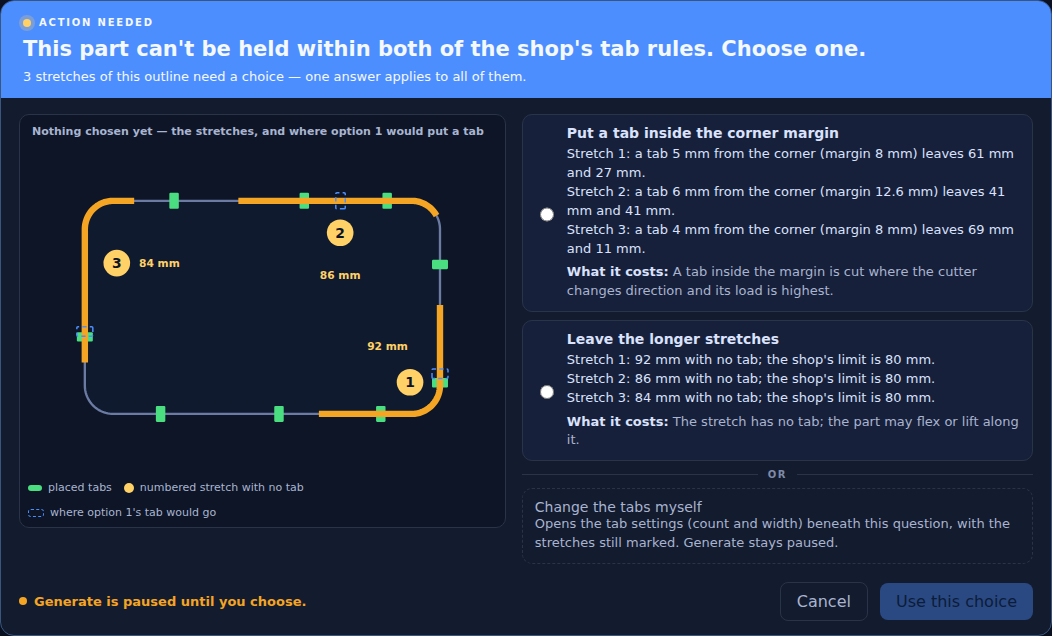
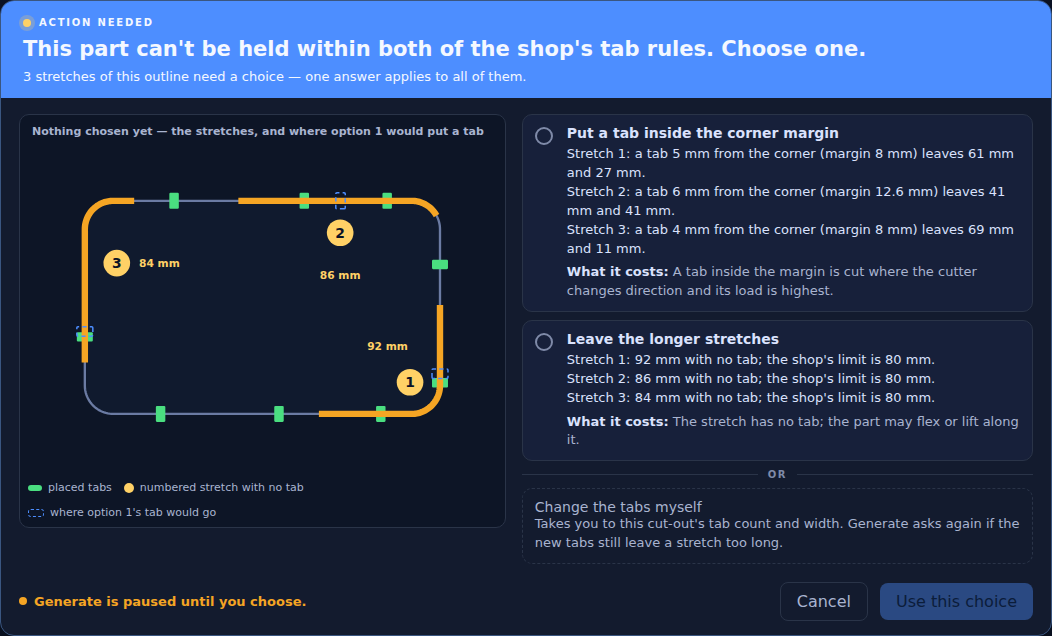
feat(#1258): B2 — the picked radio looks picked, option 3 tells the truth, the Holding suffix, named cut-outs
The radio is a drawn ring with a filled accent centre when picked (the native input still carries the
keyboard); "Change the tabs myself" collapses the card to the bar and takes the operator to the
cut-out's tab count, with the ruled sentence; the cut-out row's summary carries "· 1 by your choice";
each row names its cut-out when the engine says which (several cut-outs). The run sheet's sentences
wait for the engine's statement.

Claude-Session: https://claude.ai/code/session_011NvDTuaiKYH38e7cdeGhfx

Changed region(s): [[0.4867, 0.8066, 0.9734, 0.8664], [0.5171, 0.5975, 0.5475, 0.6274], [0.5171, 0.3286, 0.5475, 0.3585]]

diff --git a/casemaker-app/src/components/panels/TabChoiceCard.tsx b/casemaker-app/src/components/panels/TabChoiceCard.tsx
@@ -35,9 +35,11 @@ import {
   TAB_QUESTION,
   answeredSummary,
   insideMarginOffered,
+  CHANGE_TABS_LINE,
   insideMarginRow,
   longerStretchRow,
   mm,
+  severalCuts,
   stretchCountLine,
   stretchNumber,
   type TabChoiceAnswer,
@@ -314,16 +316,35 @@ export function TabChoiceCard(props: TabChoiceCardProps): JSX.Element {
       onMouseLeave={() => setHover(null)}
       data-testid={`tab-choice-option-${value}`}
     >
-      <input
-        type="radio"
-        name="tab-choice"
-        value={value}
-        checked={picked === value}
-        onChange={() => setPicked(value)}
-        onFocus={() => setHover(value)}
-        onBlur={() => setHover(null)}
-        style={{ marginTop: 3 }}
-      />
+      {/* The native radio carries the keyboard and the screen reader; the drawn ring and centre carry
+          the look, so a picked option rests on more than its border: a filled accent centre against
+          an empty ring. */}
+      <span style={{ position: 'relative', width: 18, height: 18, marginTop: 2 }}>
+        <input
+          type="radio"
+          name="tab-choice"
+          value={value}
+          checked={picked === value}
+          onChange={() => setPicked(value)}
+          onFocus={() => setHover(value)}
+          onBlur={() => setHover(null)}
+          style={{ position: 'absolute', inset: 0, margin: 0, opacity: 0, cursor: 'pointer' }}
+        />
+        <span
+          aria-hidden
+          data-testid={`tab-choice-radio-${value}`}
+          data-picked={picked === value}
+          style={{
+            display: 'block',
+            width: 18,
+            height: 18,
+            boxSizing: 'border-box',
+            borderRadius: '50%',
+            border: `2px solid ${picked === value ? BLUE : '#7f8aa8'}`,
+            background: picked === value ? `radial-gradient(circle at center, ${BLUE} 0 5px, transparent 5px)` : 'transparent',
+          }}
+        />
+      </span>
       <span>
         <span style={{ display: 'block', fontSize: 14, fontWeight: 600, color: INK, marginBottom: 4 }}>{title}</span>
         {rows.map((r) => (
@@ -375,12 +396,12 @@ export function TabChoiceCard(props: TabChoiceCardProps): JSX.Element {
               <b style={{ color: AMBER }}>Option 1 is not offered.</b> {NO_PLACE_LINE}
             </p>
           ) : (
-            radio('insideMargin', 'Put a tab inside the corner margin', needed.stretches.map(insideMarginRow), COST_INSIDE_MARGIN)
+            radio('insideMargin', 'Put a tab inside the corner margin', needed.stretches.map((s) => insideMarginRow(s, severalCuts(needed.stretches))), COST_INSIDE_MARGIN)
           )}
           {radio(
             'longerStretch',
             needed.stretches.length === 1 ? 'Leave the longer stretch' : 'Leave the longer stretches',
-            needed.stretches.map((s) => longerStretchRow(s, needed.limitMm)),
+            needed.stretches.map((s) => longerStretchRow(s, needed.limitMm, severalCuts(needed.stretches))),
             COST_LONGER_STRETCH,
           )}
           <div aria-hidden style={{ display: 'flex', alignItems: 'center', gap: 10, color: '#7f8aa8', fontSize: 10, fontWeight: 600, letterSpacing: '.16em', textTransform: 'uppercase' }}>
@@ -396,7 +417,7 @@ export function TabChoiceCard(props: TabChoiceCardProps): JSX.Element {
           >
             <span style={{ display: 'block', fontSize: 14, fontWeight: 500 }}>Change the tabs myself</span>
             <span style={{ display: 'block', fontSize: 13, lineHeight: 1.45 }}>
-              Opens the tab settings (count and width) beneath this question, with the stretch{needed.stretches.length === 1 ? '' : 'es'} still marked. Generate stays paused.
+              {CHANGE_TABS_LINE}
             </span>
           </button>
         </div>

diff --git a/casemaker-app/src/components/panels/tabChoiceWords.ts b/casemaker-app/src/components/panels/tabChoiceWords.ts
@@ -10,7 +10,21 @@
 
 import type { TabChoiceNeeded } from '@/engine/cnc/cam/model/plan';
 
-export type TabStretchOf = TabChoiceNeeded['stretches'][number];
+/**
+ * A stretch as the planner reports it. `cut` names the cut-out it belongs to, as the operation list
+ * names it, when the engine says (several cut-outs can each have a stretch).
+ */
+export type TabStretchOf = TabChoiceNeeded['stretches'][number] & { cut?: { id: string; name: string } };
+
+/** "Lid outline — " before a row when the stretch's cut-out is known and there is more than one. */
+function cutPrefix(s: TabStretchOf, several: boolean): string {
+  return several && s.cut !== undefined ? `${s.cut.name} — ` : '';
+}
+
+/** Whether the stretches span more than one cut-out (each row then names its own). */
+export function severalCuts(stretches: readonly TabStretchOf[]): boolean {
+  return new Set(stretches.map((s) => s.cut?.id ?? '')).size > 1;
+}
 
 /** The two answers; the third option changes the rules' inputs and is not an answer. */
 export type TabChoiceAnswer = 'insideMargin' | 'longerStretch';
@@ -39,15 +53,16 @@ export const COST_INSIDE_MARGIN =
 export const COST_LONGER_STRETCH = 'The stretch has no tab; the part may flex or lift along it.';
 
 /** Option 1's sentence for one stretch — a row of the choice, at body size. */
-export function insideMarginRow(s: TabStretchOf): string {
+export function insideMarginRow(s: TabStretchOf, several = false): string {
   const c = s.candidate;
-  if (c === null) return `Stretch ${stretchNumber(s)}: no place for a tab — stays ${mm(s.spanMm)}.`;
-  return `Stretch ${stretchNumber(s)}: a tab ${mm(c.fromCornerMm)} from the corner (margin ${mmOne(c.marginMm)} mm) leaves ${mm(c.leavesSpansMm[0])} and ${mm(c.leavesSpansMm[1])}.`;
+  const head = `${cutPrefix(s, several)}Stretch ${stretchNumber(s)}`;
+  if (c === null) return `${head}: no place for a tab — stays ${mm(s.spanMm)}.`;
+  return `${head}: a tab ${mm(c.fromCornerMm)} from the corner (margin ${mmOne(c.marginMm)} mm) leaves ${mm(c.leavesSpansMm[0])} and ${mm(c.leavesSpansMm[1])}.`;
 }
 
 /** Option 2's sentence for one stretch. */
-export function longerStretchRow(s: TabStretchOf, limitMm: number): string {
-  return `Stretch ${stretchNumber(s)}: ${mm(s.spanMm)} with no tab; the shop's limit is ${mm(limitMm)}.`;
+export function longerStretchRow(s: TabStretchOf, limitMm: number, several = false): string {
+  return `${cutPrefix(s, several)}Stretch ${stretchNumber(s)}: ${mm(s.spanMm)} with no tab; the shop's limit is ${mm(limitMm)}.`;
 }
 
 /** Whether the first option can be offered: at least one stretch has a place for a tab. */
@@ -104,4 +119,7 @@ export function answeredSummary(choice: TabChoiceAnswer, n: TabChoiceNeeded): { 
 export const TAB_AGAIN_LINE = 'The outline changed since you chose; choose again.';
 export const TAB_BAR_HEADLINE = 'Action needed: choose how this part is held';
 export const TAB_BAR_SUB = 'Generate has no programs until you choose.';
+/** Option 3: it is not an answer, and it goes to the cut-out's own tab settings. */
+export const CHANGE_TABS_LINE =
+  "Takes you to this cut-out's tab count and width. Generate asks again if the new tabs still leave a stretch too long.";
 export const TAB_PAUSED_LINE = 'Generate is paused until you choose.';

diff --git a/casemaker-app/tests/unit/engraveTabChoice1258.spec.tsx b/casemaker-app/tests/unit/engraveTabChoice1258.spec.tsx
@@ -5,6 +5,8 @@ import { afterEach, beforeEach, describe, expect, it, vi } from 'vitest';
 import { act, cleanup, fireEvent, render, screen } from '@testing-library/react';
 
 import { EngraveTabChoice } from '@/components/panels/EngraveTabChoice';
+import { useTabChoiceSuffix } from '@/components/panels/useTabChoiceSuffix';
+import type { JSX } from 'react';
 import { defaultEngraveJob } from '@/engine/cnc/engrave/defaults';
 import { useEngraveJobStore } from '@/store/engraveJobStore';
 import { useEngraveRunStore } from '@/store/engraveRunStore';
@@ -63,6 +65,32 @@ describe('#1258 — the question where Generate stopped', () => {
     fireEvent.click(screen.getByLabelText(/Leave the longer stretches/));
     fireEvent.click(screen.getByTestId('tab-choice-use'));
     expect(useEngraveJobStore.getState().job.tabChoice?.choice).toBe('longerStretch');
+  });
+
+  it('"Change the tabs myself" collapses the card to the bar and goes to the cut-out’s tab count; it answers nothing', () => {
+    const count = document.createElement('input');
+    count.setAttribute('data-testid', 'engrave-cutout-tabs-count-0');
+    count.scrollIntoView = vi.fn();
+    document.body.appendChild(count);
+    useEngraveRunStore.setState({ generated: asking() });
+    render(<EngraveTabChoice onGenerate={vi.fn()} />);
+    fireEvent.click(screen.getByTestId('tab-choice-change-tabs'));
+    expect(screen.getByTestId('tab-choice-bar')).toBeTruthy();
+    expect(document.activeElement).toBe(count);
+    expect(useEngraveJobStore.getState().job.tabChoice).toBeUndefined();
+    count.remove();
+  });
+
+  it('the Holding row carries the choice once answered', () => {
+    useEngraveRunStore.setState({ generated: asking() });
+    render(<EngraveTabChoice onGenerate={vi.fn()} />);
+    fireEvent.click(screen.getByLabelText(/Leave the longer stretches/));
+    fireEvent.click(screen.getByTestId('tab-choice-use'));
+    function Row(): JSX.Element {
+      return <span data-testid="row">{useTabChoiceSuffix('cut-1', 0)}</span>;
+    }
+    render(<Row />);
+    expect(screen.getByTestId('row').textContent).toBe('3 stretches by your choice');
   });
 
   it('a stale answer asks again with the one-line reason', () => {

diff --git a/casemaker-app/tests/unit/tabChoiceCard1258.spec.tsx b/casemaker-app/tests/unit/tabChoiceCard1258.spec.tsx
@@ -63,6 +63,32 @@ describe('#1258 — the question', () => {
     expect(two).not.toMatch(/flute/i);
   });
 
+  it('a picked option looks picked: a filled accent centre, and the others an empty ring', () => {
+    render(<TabChoiceCard {...props()} />);
+    expect(screen.getByTestId('tab-choice-radio-insideMargin').getAttribute('data-picked')).toBe('false');
+    fireEvent.click(screen.getByLabelText(/Put a tab inside the corner margin/));
+    const one = screen.getByTestId('tab-choice-radio-insideMargin') as HTMLElement;
+    const two = screen.getByTestId('tab-choice-radio-longerStretch') as HTMLElement;
+    expect(one.getAttribute('data-picked')).toBe('true');
+    expect(two.getAttribute('data-picked')).toBe('false');
+    expect(one.style.background).toContain('radial-gradient');
+    expect(two.style.background === 'transparent' || two.style.background === '').toBe(true);
+    expect(one.style.border).not.toBe(two.style.border);
+  });
+
+  it('option 3 tells the truth about where it goes, and each row names its cut-out when there are several', () => {
+    const named = {
+      ...FIXTURE_NEEDED,
+      stretches: FIXTURE_NEEDED.stretches.map((s, i) => ({ ...s, cut: i === 0 ? { id: 'a', name: 'Lid outline' } : { id: 'b', name: 'Base outline' } })),
+    };
+    render(<TabChoiceCard {...props({ needed: named as never })} />);
+    expect(screen.getByTestId('tab-choice-change-tabs').textContent).toContain(
+      "Takes you to this cut-out's tab count and width. Generate asks again if the new tabs still leave a stretch too long.",
+    );
+    expect(screen.getByTestId('tab-choice-option-insideMargin').textContent).toContain('Lid outline — Stretch 1: a tab 5 mm');
+    expect(screen.getByTestId('tab-choice-option-longerStretch').textContent).toContain('Base outline — Stretch 2: 86 mm with no tab');
+  });
+
   it('choosing enables the primary and hands the answer back; the drawing follows the option', () => {
     const onUse = vi.fn();
     render(<TabChoiceCard {...props({ onUse })} />);

diff --git a/casemaker-app/src/components/panels/useTabChoiceSuffix.ts b/casemaker-app/src/components/panels/useTabChoiceSuffix.ts
@@ -1,0 +1,21 @@
+/**
+ * #1258 — THE HOLDING ROW'S SUFFIX: "4 tabs · 1 by your choice". Once the operator has answered the
+ * tab question, the choice stays visible on the cut-out's own row after the card has scrolled away.
+ * It reads the job's answer and the question it was given for (display state, `tabChoiceStore`), and
+ * names the cut-out the engine says each stretch belongs to; when the engine does not say, the first
+ * cut-out carries it.
+ */
+import { useEngraveJobStore } from '@/store/engraveJobStore';
+import { useTabChoiceStore } from '@/store/tabChoiceStore';
+import { holdingChoiceSuffix, type TabStretchOf } from './tabChoiceWords';
+
+export function useTabChoiceSuffix(cutId: string, index: number): string | null {
+  const answer = useEngraveJobStore((s) => s.job.tabChoice);
+  const asked = useTabChoiceStore((s) => s.asked);
+  if (answer === undefined || asked === null || answer.answeredFor !== asked.fingerprint) return null;
+  const stretches = asked.stretches as readonly TabStretchOf[];
+  const named = stretches.some((s) => s.cut !== undefined);
+  const mine = named ? stretches.filter((s) => s.cut?.id === cutId) : index === 0 ? stretches : [];
+  if (mine.length === 0) return null;
+  return holdingChoiceSuffix(answer.choice, { ...asked, stretches: [...mine] });
+}

diff --git a/casemaker-app/src/components/panels/EngraveTabChoice.tsx b/casemaker-app/src/components/panels/EngraveTabChoice.tsx
@@ -7,8 +7,9 @@
  *   result done, the job holds an answer for the question last asked → the answered summary
  *   anything else → nothing
  *
- * "Change the tabs myself" keeps the question where it is and brings the tab settings into view with
- * the stretches still marked; Generate stays paused.
+ * "Change the tabs myself" collapses the card to its amber bar (the question stays visible, Generate
+ * stays paused) and takes the operator to the cut-out's tab count; the stretches stay marked in the
+ * preview. Generate asks again if the new tabs still leave a stretch too long.
  */
 import { useEffect } from 'react';
 import type { JSX } from 'react';
@@ -52,7 +53,12 @@ export function EngraveTabChoice({ onGenerate, tabWidthMm }: { onGenerate: () =>
     onCancel: () => ui.collapse(),
     onChoose: () => ui.expand(),
     onChange: () => ui.reopen(),
-    onChangeTabs: showTabSettings,
+    // Option 3 is not an answer: the question stays visible as the bar (Generate stays paused), and the
+    // operator goes to the cut-out's own tab count.
+    onChangeTabs: () => {
+      ui.collapse();
+      showTabSettings();
+    },
   };
   if (needed !== undefined) {
     return <TabChoiceCard {...common} needed={needed} stale={stale} mode={ui.collapsed ? 'collapsed' : 'ask'} />;

diff --git a/casemaker-app/src/components/panels/EngraveCutoutRow.tsx b/casemaker-app/src/components/panels/EngraveCutoutRow.tsx
@@ -1,3 +1,4 @@
+import { useTabChoiceSuffix } from './useTabChoiceSuffix';
 import type { CSSProperties, JSX, ReactNode } from 'react';
 import { EngraveItemRow } from '@/components/panels/EngraveItemRow';
 import { cutoutOperationName } from '@/engine/cnc/engrave/partPlan';
@@ -56,6 +57,8 @@ export function EngraveCutoutRow({
   findingAction,
 }: EngraveCutoutRowProps): JSX.Element {
   const tabCount = cutout.tabs.count;
+  // #1258 — the operator's answer to the tab question stays visible on the row.
+  const choiceSuffix = useTabChoiceSuffix(cutout.id, index);
   return (
     <EngraveItemRow
       id={cutout.id}
@@ -66,7 +69,7 @@ export function EngraveCutoutRow({
       kindWord="Cut-out"
       typeLabel="Profile"
       name={cutoutOperationName(cutout, cutout.of === 'stock-inset' ? null : (targets.find((t) => t.id === cutout.of)?.label ?? null))}
-      summary={tabCount === 0 ? 'no tabs' : `${tabCount} tab${tabCount === 1 ? '' : 's'}`}
+      summary={`${tabCount === 0 ? 'no tabs' : `${tabCount} tab${tabCount === 1 ? '' : 's'}`}${choiceSuffix === null ? '' : ` · ${choiceSuffix}`}`}
       enabled={cutout.enabled}
       enabledTitle="A disabled cut-out is kept in the job but not cut."
       removeTitle="Remove this cut-out."
